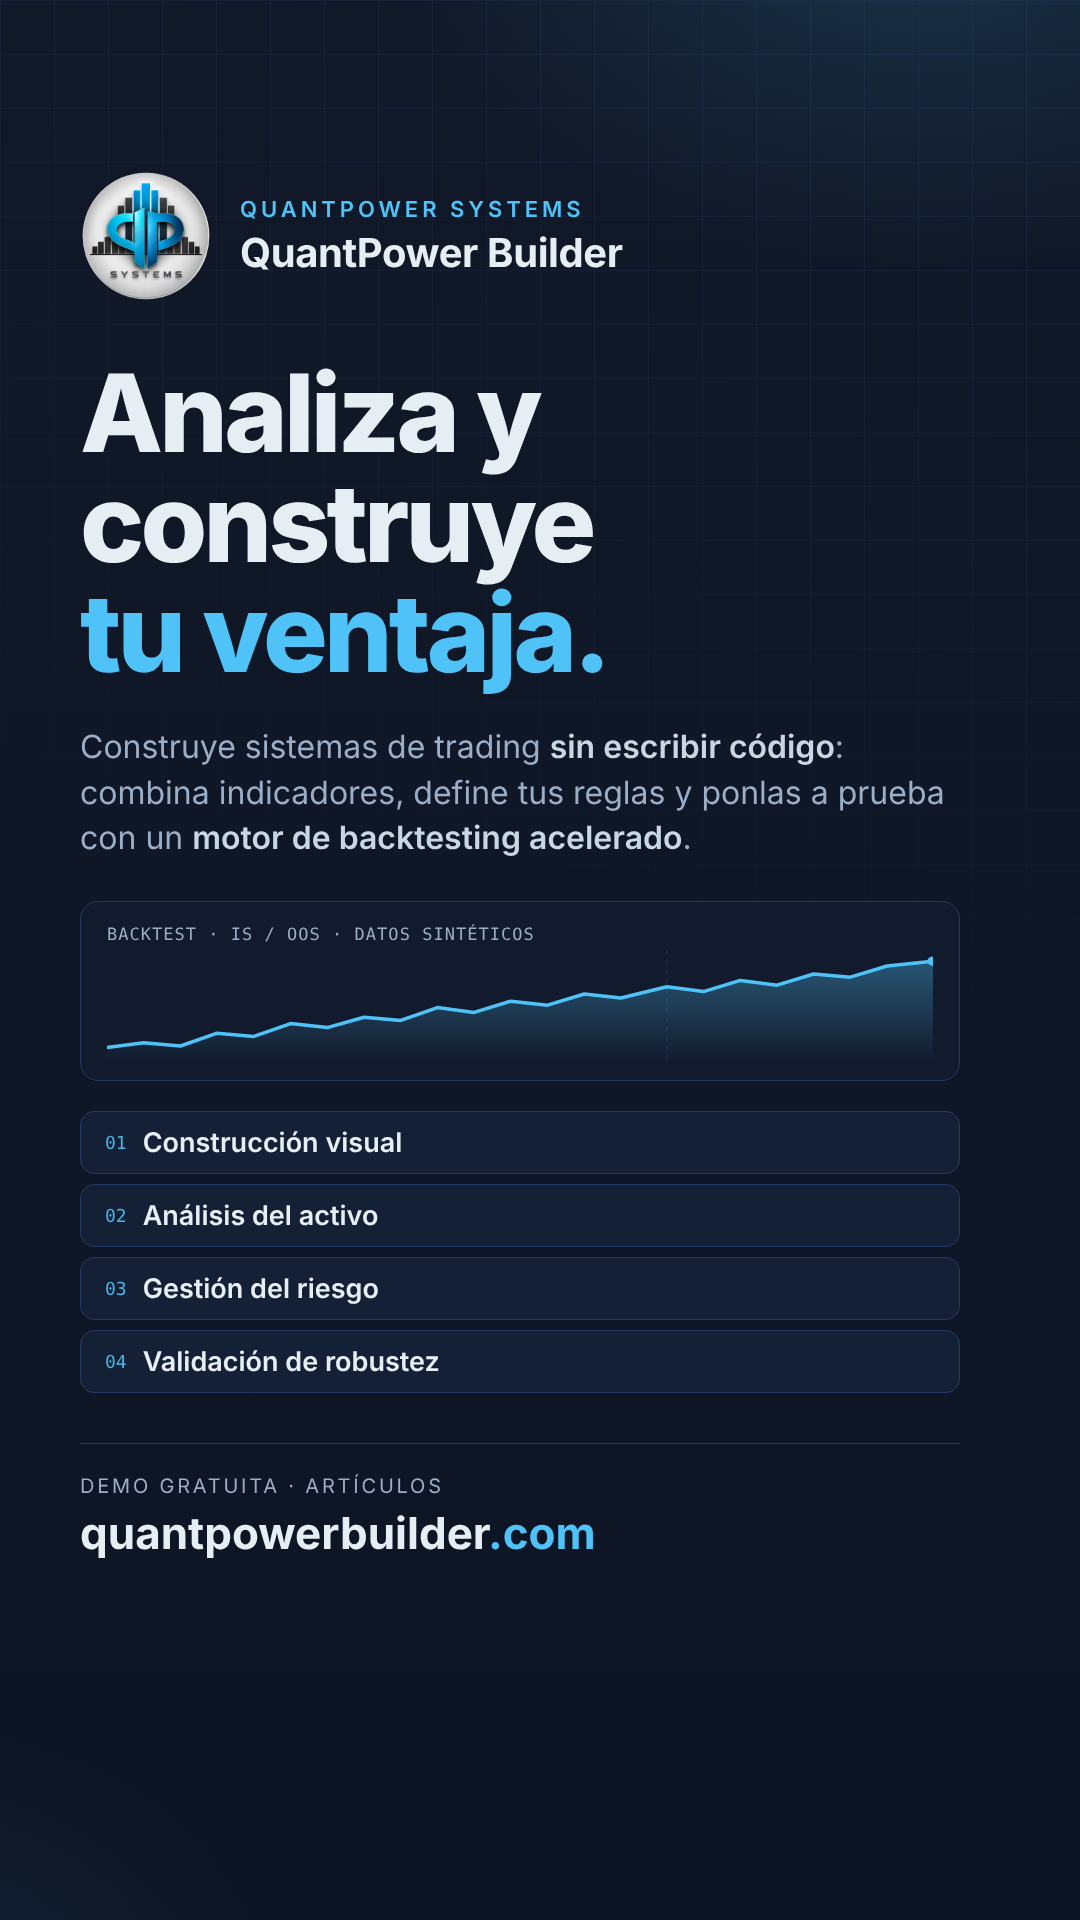
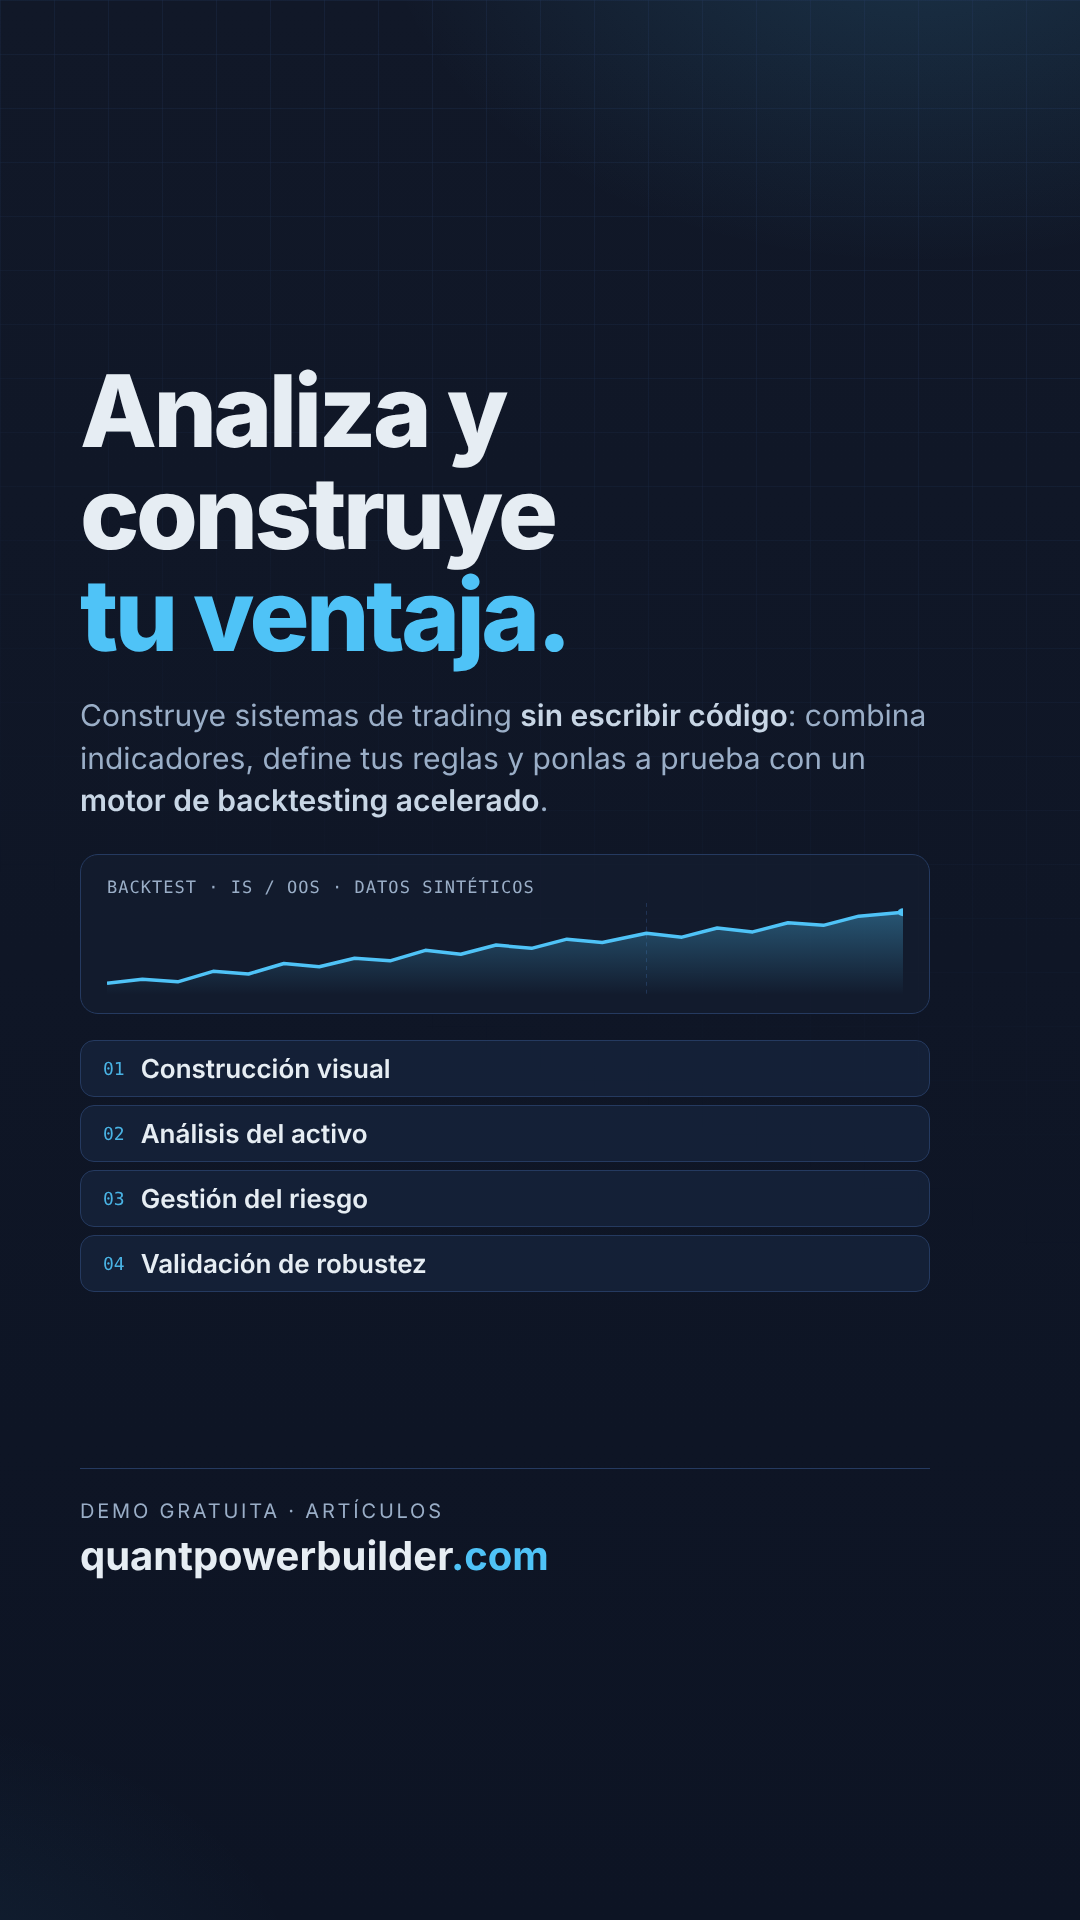
Redes: márgenes de seguridad más amplios en las versiones 9:16
En móviles alargados TikTok tapa unos 350 px arriba, 280 abajo y 145 a la
derecha. Las versiones 9:16 dejan libres 360/340/150 px, omiten la cabecera
con el logo (ya está en el avatar) y comprueban al renderizar que nada se
desborda.

Claude-Session: https://claude.ai/code/session_01HHLZi1SgtUefWHesdsfYTT

diff --git a/redes/03-licencia-de-por-vida/cartel.html b/redes/03-licencia-de-por-vida/cartel.html
@@ -7,7 +7,8 @@
   Cartel de la promoción «licencia de por vida para los próximos 50 usuarios».
   Se renderiza a PNG con redes/renderizar.sh.
   Formato por parámetro: ?f=vertical (1080×1350, por defecto), ?f=cuadrado (1080×1080)
-  o ?f=historia (1080×1920; deja libre ~200 px arriba y ~300 px abajo para la interfaz de la app).
+  o ?f=historia (1080×1920). En 9:16 deja libres ~360 px arriba, ~340 abajo y ~150 a la derecha:
+  en móviles alargados TikTok tapa esas zonas con sus pestañas, la descripción y los botones.
 -->
 <style>
   :root {
@@ -30,7 +31,8 @@
       linear-gradient(180deg, var(--bg) 0%, var(--bg-deep) 100%);
   }
   .poster.square { height: 1080px; padding: 60px 72px 52px; }
-  .poster.story { height: 1920px; padding: 200px 80px 300px; }
+  .poster.story { height: 1920px; padding: 360px 150px 340px 80px; }
+  .story .head { display: none; }
   .grid {
     position: absolute; inset: 0; pointer-events: none;
     background-image:
@@ -61,7 +63,7 @@
   }
   .badge::before { content: ""; width: 12px; height: 12px; border-radius: 50%; background: var(--bg-deep); }
   .square .badge { margin-top: 40px; font-size: 21px; }
-  .story .badge { margin-top: 56px; }
+  .story .badge { margin-top: 0; }
 
   /* Bloque principal: el «50» y el titular */
   .hero { margin-top: 30px; display: flex; align-items: center; gap: 44px; }
@@ -76,14 +78,14 @@
   .square .hero { margin-top: 24px; gap: 36px; }
   .square .count { font-size: 240px; }
   .square h1 { font-size: 64px; }
-  .story .hero { margin-top: 40px; flex-direction: column; align-items: flex-start; gap: 24px; }
-  .story .count { font-size: 300px; }
-  .story h1 { font-size: 90px; }
+  .story .hero { margin-top: 30px; flex-direction: column; align-items: flex-start; gap: 18px; }
+  .story .count { font-size: 250px; }
+  .story h1 { font-size: 84px; }
 
   .lead { margin-top: 38px; max-width: 900px; font-size: 31px; line-height: 1.42; color: var(--text-muted); }
   .lead b { color: var(--text); font-weight: 600; }
   .square .lead { margin-top: 24px; font-size: 27px; }
-  .story .lead { margin-top: 36px; font-size: 32px; }
+  .story .lead { margin-top: 28px; font-size: 30px; }
 
   .steps { margin-top: 44px; display: grid; gap: 14px; }
   .step {
@@ -102,8 +104,8 @@
   .square .steps { margin-top: 26px; gap: 10px; }
   .square .step { padding: 14px 22px; font-size: 24px; }
   .square .step i { width: 40px; height: 40px; font-size: 18px; }
-  .story .steps { margin-top: 40px; gap: 14px; }
-  .story .step { padding: 20px 28px; font-size: 29px; }
+  .story .steps { margin-top: 30px; gap: 12px; }
+  .story .step { padding: 16px 24px; font-size: 27px; }
 
   .foot {
     margin-top: auto; padding-top: 28px; border-top: 1px solid var(--border);
@@ -114,7 +116,7 @@
   .cta strong span { color: var(--accent); }
   .fine { font-size: 20px; line-height: 1.4; color: var(--text-muted); }
   .square .cta strong { font-size: 34px; }
-  .story .cta strong { font-size: 42px; }
+  .story .cta strong { font-size: 40px; }
   .story .fine { font-size: 22px; }
 </style>
 </head>
@@ -161,6 +163,13 @@
   const f = new URLSearchParams(location.search).get("f");
   const clase = { cuadrado: "square", historia: "story" }[f];
   if (clase) document.getElementById("poster").classList.add(clase);
+</script>
+<script>
+  // Comprobación al renderizar: cuántos píxeles de contenido no caben en el lienzo
+  addEventListener("load", () => {
+    const el = document.querySelector(".poster, .slide.active");
+    if (el) document.documentElement.dataset.desborde = el.scrollHeight - el.clientHeight;
+  });
 </script>
 </body>
 </html>

diff --git a/redes/01-presentacion/cartel.html b/redes/01-presentacion/cartel.html
@@ -102,19 +102,21 @@
   }
   .square .feature { padding: 16px 22px; font-size: 24px; }
 
-  /* TikTok 1080×1920: deja libres ~170 px arriba, ~360 px abajo y ~110 px a la derecha
-     (descripción y botones de la app) */
-  .poster.tiktok { height: 1920px; padding: 170px 120px 360px 80px; }
+  /* TikTok 1080×1920: deja libres ~360 px arriba, ~340 px abajo y ~150 px a la derecha.
+     En móviles alargados TikTok tapa esas zonas con sus pestañas, la descripción y los botones;
+     el logo ya aparece en el avatar de la cuenta, así que se omite la cabecera. */
+  .poster.tiktok { height: 1920px; padding: 360px 150px 340px 80px; }
+  .tiktok .head { display: none; }
   .tiktok .logo { width: 132px; height: 132px; }
   .tiktok .brand strong { font-size: 40px; }
-  .tiktok h1 { margin-top: 56px; font-size: 108px; }
-  .tiktok .lead { margin-top: 36px; font-size: 32px; }
-  .tiktok .chart { margin-top: 40px; height: 180px; }
-  .tiktok .chart svg { height: 112px; }
+  .tiktok h1 { margin-top: 0; font-size: 100px; }
+  .tiktok .lead { margin-top: 28px; font-size: 30px; }
+  .tiktok .chart { margin-top: 32px; height: 160px; }
+  .tiktok .chart svg { height: 92px; }
   .tiktok .chart .label em { display: none; }
-  .tiktok .features { margin-top: 30px; grid-template-columns: 1fr; gap: 10px; }
-  .tiktok .feature { padding: 14px 24px; font-size: 27px; }
-  .tiktok .cta strong { font-size: 44px; }
+  .tiktok .features { margin-top: 26px; grid-template-columns: 1fr; gap: 8px; }
+  .tiktok .feature { padding: 12px 22px; font-size: 26px; }
+  .tiktok .cta strong { font-size: 40px; }
   .tiktok .tag { display: none; }
   .feature i {
     font-style: normal; font-family: var(--mono); font-size: 18px; font-weight: 400;
@@ -193,6 +195,13 @@
 <script>
   const clase = { cuadrado: "square", tiktok: "tiktok" }[new URLSearchParams(location.search).get("f")];
   if (clase) document.getElementById("poster").classList.add(clase);
+</script>
+<script>
+  // Comprobación al renderizar: cuántos píxeles de contenido no caben en el lienzo
+  addEventListener("load", () => {
+    const el = document.querySelector(".poster, .slide.active");
+    if (el) document.documentElement.dataset.desborde = el.scrollHeight - el.clientHeight;
+  });
 </script>
 </body>
 </html>

diff --git a/redes/04-backtesting-carrusel/carrusel.html b/redes/04-backtesting-carrusel/carrusel.html
@@ -8,7 +8,8 @@
   «Más allá del backtest - MAE, MFE, walk-forward y Montecarlo en la práctica».
   Se renderiza a PNG con redes/renderizar.sh.
   Parámetros: ?s=1…8 (diapositiva) y ?f=vertical (1080×1350, por defecto) o ?f=historia (1080×1920).
-  En 9:16 deja libres ~200 px arriba, ~380 px abajo y ~110 px a la derecha para la interfaz de la app.
+  En 9:16 deja libres ~360 px arriba, ~340 px abajo y ~150 px a la derecha: en móviles alargados
+  TikTok tapa esas zonas con sus pestañas, la descripción y los botones. La cabecera se omite.
 -->
 <style>
   :root {
@@ -31,7 +32,8 @@
       linear-gradient(180deg, var(--bg) 0%, var(--bg-deep) 100%);
   }
   .slide.active { display: flex; }
-  .historia .slide { height: 1920px; padding: 200px 110px 380px 80px; gap: 34px; }
+  .historia .slide { height: 1920px; padding: 360px 150px 340px 80px; gap: 24px; }
+  .historia .top { display: none; }
   .slide > * { position: relative; flex-shrink: 0; }
   .grid {
     position: absolute; inset: 0; pointer-events: none;
@@ -683,6 +685,13 @@
   const s = q.get("s") || "1";
   const el = document.querySelector(`.slide[data-s="${s}"]`);
   if (el) el.classList.add("active");
+</script>
+<script>
+  // Comprobación al renderizar: cuántos píxeles de contenido no caben en el lienzo
+  addEventListener("load", () => {
+    const el = document.querySelector(".poster, .slide.active");
+    if (el) document.documentElement.dataset.desborde = el.scrollHeight - el.clientHeight;
+  });
 </script>
 </body>
 </html>
